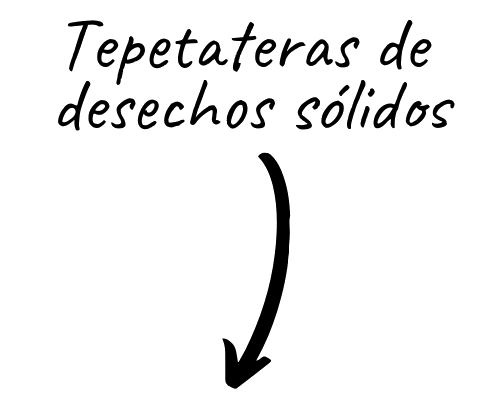
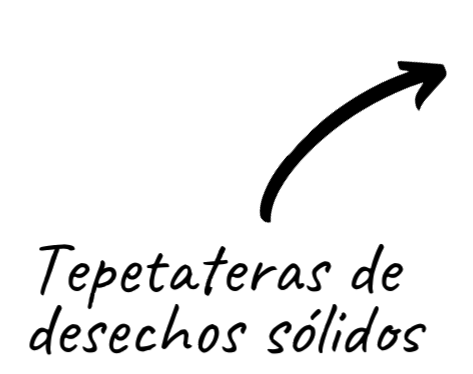
Fix img background and position legends

diff --git a/_sass/_home.scss b/_sass/_home.scss
@@ -41,14 +41,14 @@
 }
 
 .legend-home1 {
-    right: 3%;
-    top: 475px;
+    right: 1%;
+    top: 225px;
     width: 14%;
 }
 
 .legend-home2 {
-    left: 9%;
-    top: 320px;
+    left: 10%;
+    top: 250px;
     width: 10%;
 }
 
@@ -72,8 +72,8 @@
     }
     
     .legend-home2 {
-        left: 5%;
-        top: 290px;
+        left: 10%;
+        top: 285px;
     }
     
 }
@@ -86,8 +86,8 @@
     }
     
     .legend-home2 {
-        left: 0;
-        top: 260px;
+        left: 3%;
+        top: 255px;
     }
     
 }
@@ -105,6 +105,9 @@
             font-size: 50px;
             line-height: 55px;
         }
+    }
+    .legend-home2 {
+        display: none;
     }
 }
 

diff --git a/1-home.md b/1-home.md
@@ -12,3 +12,5 @@ Con una capacidad de almacenamiento de 2,040 millones de metros cúbicos de dese
 [Ellos construyen la presa]({{ site.baseurl }}/ellos-construyen-la-presa)
 [Las historias detrás de la presa]({{ site.baseurl }}/las-historias-detras-de-la-presa)
 [Los rostros del derrame]({{ site.baseurl }}/los-rostros-del-derrame)
+
+[Ver la infografía completa]({{ site.baseurl }}/los-rostros-del-derrame)
